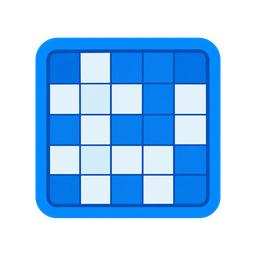
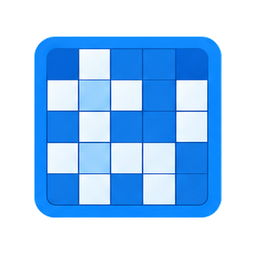
Refresh app artwork and social metadata
Update the app icon assets and document the approved artwork extraction guidance. Switch the shared social image to v5, normalize feature social-image dimensions to 350x350, and increment versions for Calculator, Index Cards, Crossword, Guide, and Review.

diff --git a/src/features/feature-definitions.ts b/src/features/feature-definitions.ts
@@ -26,7 +26,7 @@ export const featureDefinitions: readonly FeatureDefinition[] = [
   {
     id: 'calculator', label: 'Calculator', path: '/calculator/', icon: 'calculator',
     group: 'helpers',
-    version: '1.9.3',
+    version: '1.9.4',
     image: 'assets/app-icons/calculator.png',
     description: 'A scientific calculator for expressions and functions.',
     metadata: {
@@ -34,8 +34,8 @@ export const featureDefinitions: readonly FeatureDefinition[] = [
       socialImage: {
         path: 'assets/app-icons/calculator.png',
         type: 'image/png',
-        width: 1254,
-        height: 1254,
+        width: 350,
+        height: 350,
         alt: 'Calculator — Layered blue calculator with a pale display and cyan arithmetic keys.',
       },
     },
@@ -67,7 +67,7 @@ export const featureDefinitions: readonly FeatureDefinition[] = [
   {
     id: 'index-cards', label: 'Index Cards', path: '/index-cards/', icon: 'cards',
     group: 'applications',
-    version: '1.18.5',
+    version: '1.18.6',
     image: 'assets/app-icons/index-cards.png',
     description: 'Create flash cards or fill-in-the-blanks sets, then review or view them at your own pace.',
   },
@@ -81,7 +81,7 @@ export const featureDefinitions: readonly FeatureDefinition[] = [
   {
     id: 'crossword', label: 'Crossword', path: '/crossword/', icon: 'crossword',
     group: 'applications',
-    version: '1.3.3',
+    version: '1.3.4',
     image: 'assets/app-icons/crossword.png',
     description: 'Create your own crosswords, solve the clues, and pick up where you left off.',
     metadata: {
@@ -89,8 +89,8 @@ export const featureDefinitions: readonly FeatureDefinition[] = [
       socialImage: {
         path: 'assets/app-icons/crossword.png',
         type: 'image/png',
-        width: 1254,
-        height: 1254,
+        width: 350,
+        height: 350,
         alt: 'Crossword — An azure blue and icy-white crossword grid.',
       },
     },
@@ -98,7 +98,7 @@ export const featureDefinitions: readonly FeatureDefinition[] = [
   {
     id: 'guide', label: 'Guide', path: '/guide/', icon: 'document',
     group: 'mastery',
-    version: '1.7.4',
+    version: '1.7.5',
     image: 'assets/app-icons/guide.png',
     description: 'Build simple bullet lists or connected topic maps, then study a map one stop at a time.',
     metadata: {
@@ -106,8 +106,8 @@ export const featureDefinitions: readonly FeatureDefinition[] = [
       socialImage: {
         path: 'assets/app-icons/guide.png',
         type: 'image/png',
-        width: 1254,
-        height: 1254,
+        width: 350,
+        height: 350,
         alt: 'Guide — A folded study map with connected waypoints and a destination flag.',
       },
     },
@@ -115,7 +115,7 @@ export const featureDefinitions: readonly FeatureDefinition[] = [
   {
     id: 'knowledge-check', label: 'Review', path: '/knowledge-check/', icon: 'checklist',
     group: 'mastery',
-    version: '1.26.2',
+    version: '1.26.3',
     image: 'assets/app-icons/knowledge-check.png',
     description: 'Make knowledge sets to study, quiz yourself, or take a test.',
     metadata: {
@@ -123,8 +123,8 @@ export const featureDefinitions: readonly FeatureDefinition[] = [
       socialImage: {
         path: 'assets/app-icons/knowledge-check.png',
         type: 'image/png',
-        width: 1254,
-        height: 1254,
+        width: 350,
+        height: 350,
         alt: 'Review — A layered blue document with a folded corner and a cyan checkmark badge.',
       },
     },

diff --git a/src/app/app-config.ts b/src/app/app-config.ts
@@ -1,7 +1,7 @@
 import type { SocialImage } from '../core/metadata.ts';
 
 const socialImage: Readonly<SocialImage> = Object.freeze({
-  path: 'assets/dynamic-learner-social-v4.jpg',
+  path: 'assets/dynamic-learner-social-v5.jpg',
   type: 'image/jpeg',
   width: 1200,
   height: 630,

diff --git a/docs/design.md b/docs/design.md
@@ -27,6 +27,8 @@ Home app icons render at 56px; sidebar icons at 24px; header artwork at 28px. Ke
 
 App artwork shares the main book-and-leaf mark's layered blue palette, with icy-blue paper and restrained cyan accents. Keep shading subtle and preserve each icon's approved optical scale within the shared square canvas; equal bounding boxes do not produce equal visual weight.
 
+Extract approved artwork directly when preparing assets from a concept sheet. Regenerating individual icons can change their silhouettes, internal spacing, and details even when the prompt requests a faithful copy. Preserve the source proportions and native detail; use transparent padding for square canvases.
+
 ## Responsive behavior
 
 Desktop is the baseline. `src/styles/mobile.css` owns phone/coarse-pointer overrides; feature styles own layout-specific container behavior. Keep controls reachable in narrow/short windows, preserve safe-area insets, and avoid horizontal page overflow unless the feature intentionally scrolls a bounded surface.
